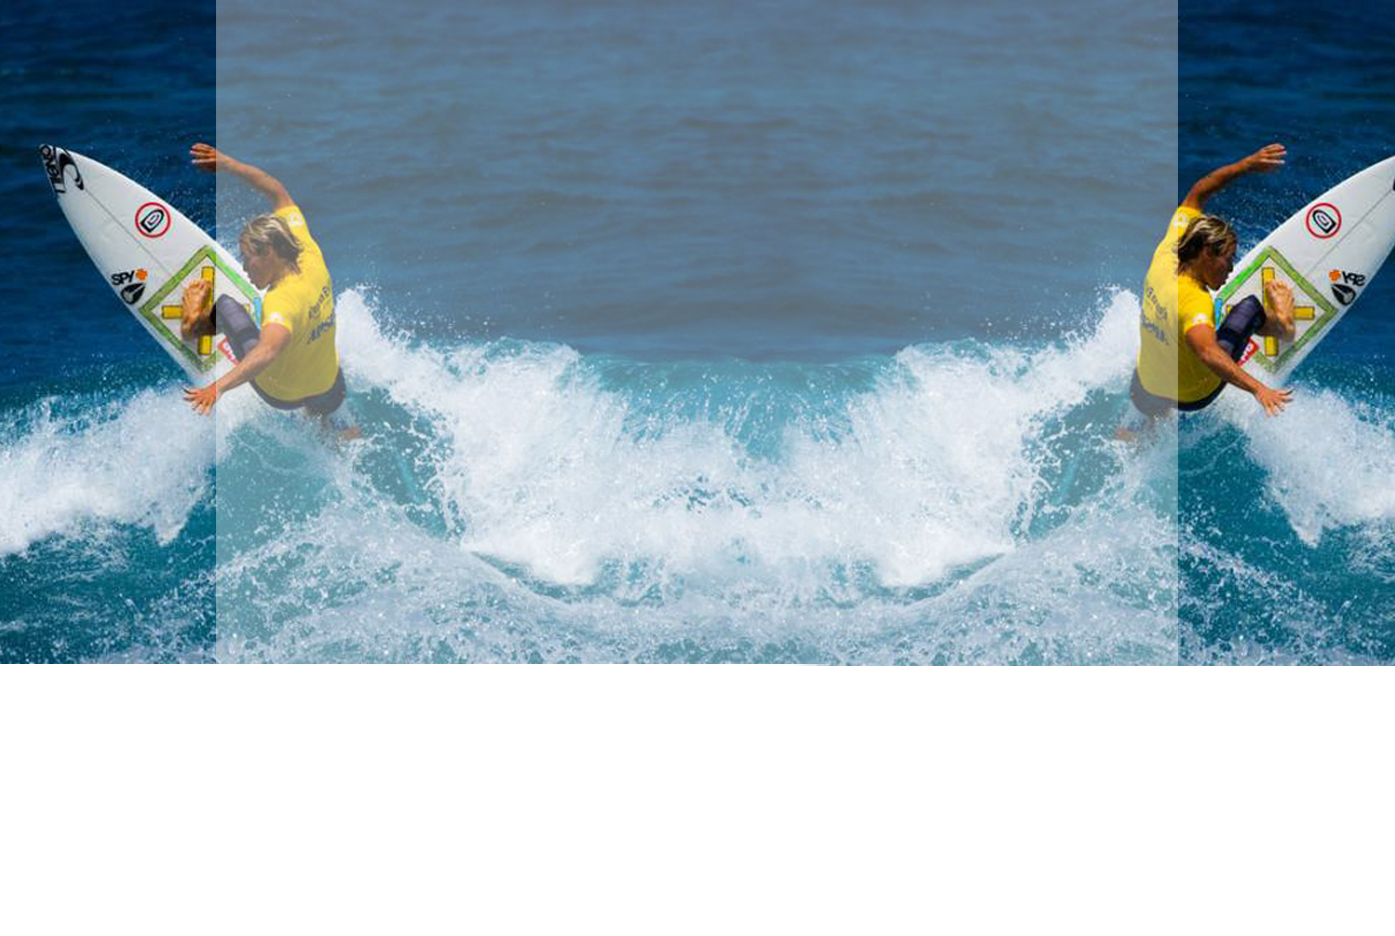
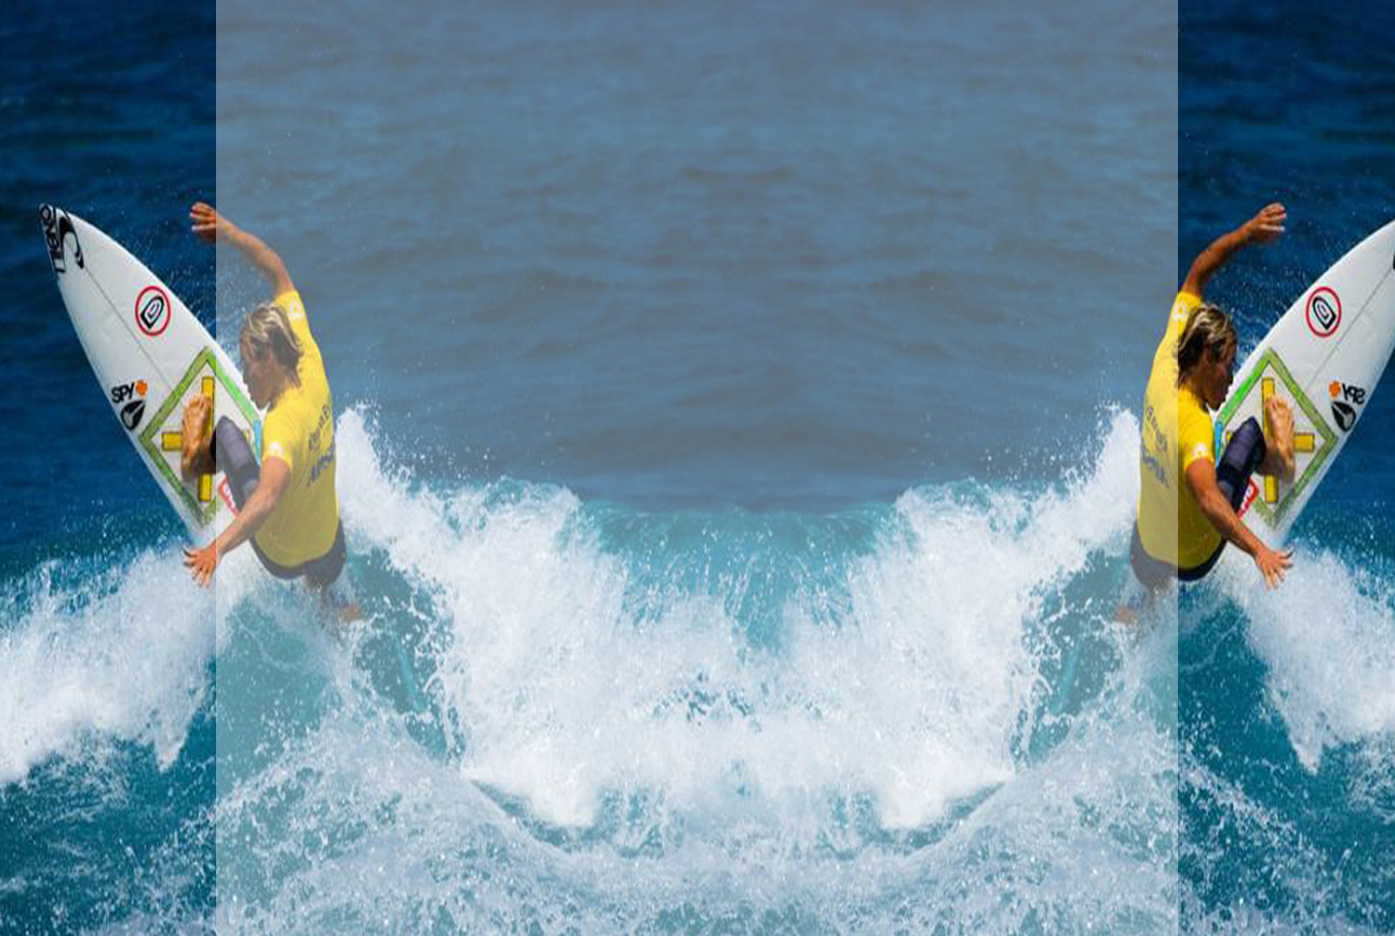
modifico fondo

diff --git a/css/style.css b/css/style.css
@@ -49,6 +49,8 @@ table {
 	/*fin de reset*/
 	
 body{
+	background-color: rgb(1,37,63);
+	width: 100%;
 	background: url("../img/fondo.jpg")no-repeat fixed center 0;
 }
 #wrapper{
@@ -168,7 +170,7 @@ header{
 	4px 4px 0px rgba(160,160,160,1),
 	5px 5px 0px rgba(0,0,0,1), 
 	8px 8px 10px rgba(0,0,0,0.5);
-	font-size: 35px;
+	font-size: 33px;
 	padding: 10px;
 	text-align: center;
 }
